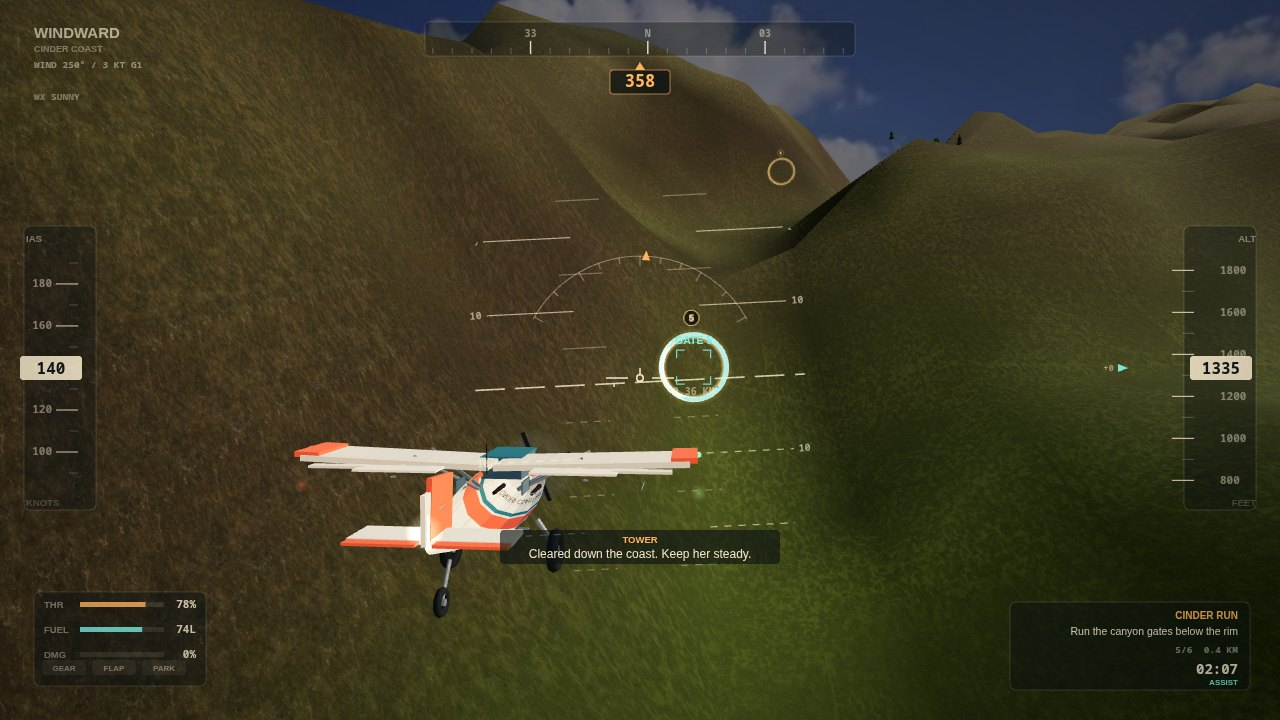
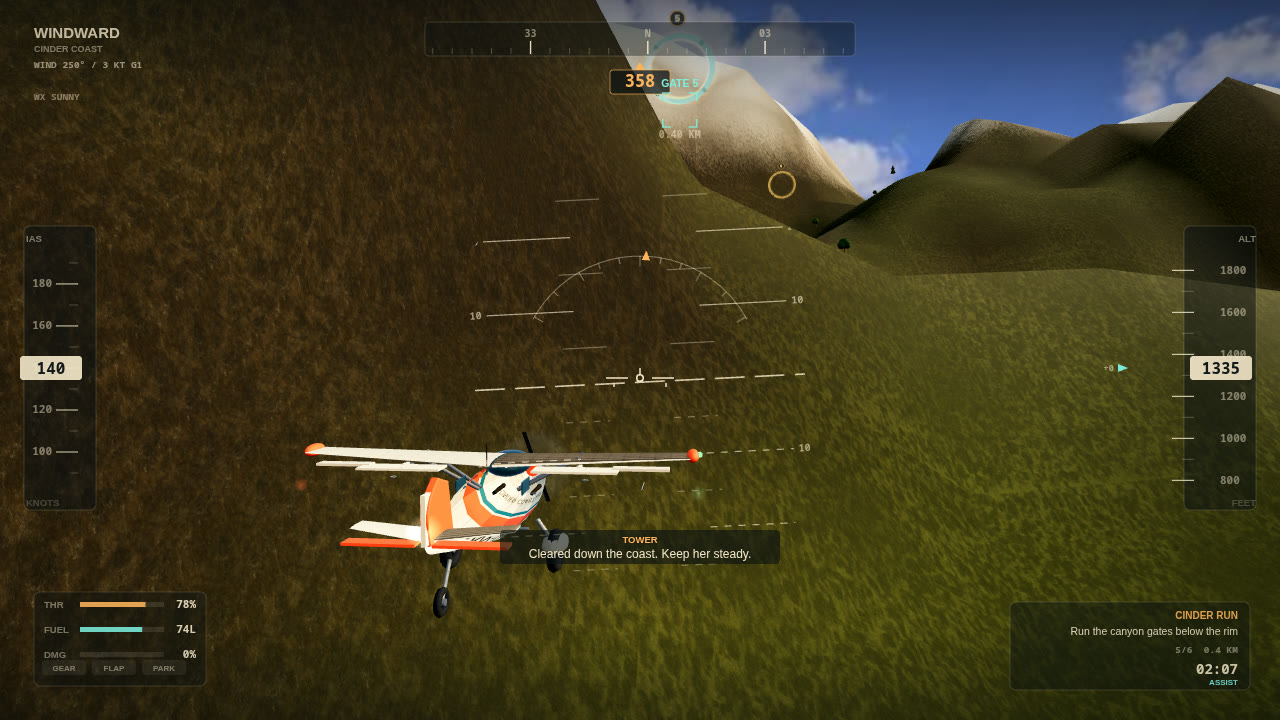
New cover set, caldera lake bowl, snow caps, cockpit glare shield and HUD scrims

diff --git a/game/src/world/weather.js b/game/src/world/weather.js
@@ -19,9 +19,9 @@ const PRESETS = {
     wind: { from: 250, speed: 3, gust: 1.2 },
   },
   sunset: {
-    label: 'SUNSET', bg: 'sunset', bgInt: 1, sunAzimuth: 300, sunElevation: 8.5, envKind: 'sunset',
+    label: 'SUNSET', bg: 'sunset', bgInt: 1, sunAzimuth: 300, sunElevation: 11.5, envKind: 'sunset',
     fog: '#d89d7c', fogNear: 1700, fogFar: 15500,
-    sunColor: '#ffb178', sunIntensity: 2.6, hemiSky: '#ffc9a0', hemiGround: '#5c3d33', hemiIntensity: 0.95,
+    sunColor: '#ffbb85', sunIntensity: 2.5, hemiSky: '#ffd0ab', hemiGround: '#5c3d33', hemiIntensity: 1.25,
     seaDeep: '#1d5162', seaShallow: '#69b4ad', seaSky: '#ffc08a', seaFog: '#d59a76', seaFogNear: 700, seaFogFar: 13000,
     rain: false, snow: false, snowGround: 0, lightning: false, env: 0.05, landingLight: false,
     wind: { from: 250, speed: 4, gust: 1.5 },
@@ -281,6 +281,15 @@ export function createWeather({ scene, sky, sea }) {
       g.fillStyle = grad;
       g.fillRect(x - r, y - r, r * 2, r * 2);
     }
+    // Feather the canvas edges so a sprite never shows its square boundary.
+    g.globalCompositeOperation = 'destination-in';
+    const mask = g.createRadialGradient(128, 64, 20, 128, 64, 120);
+    mask.addColorStop(0, 'rgba(0,0,0,1)');
+    mask.addColorStop(0.72, 'rgba(0,0,0,0.85)');
+    mask.addColorStop(1, 'rgba(0,0,0,0)');
+    g.fillStyle = mask;
+    g.fillRect(0, 0, 256, 128);
+    g.globalCompositeOperation = 'source-over';
     return new THREE.CanvasTexture(c);
   }
   const cloudTextures = [cloudTexture(881), cloudTexture(1723), cloudTexture(3301)];
@@ -293,10 +302,10 @@ export function createWeather({ scene, sky, sea }) {
     const sprite = new THREE.Sprite(new THREE.SpriteMaterial({
       map: cloudTextures[i % 3], color: i % 4 === 0 ? '#ffcdb2' : '#f6bda4',
       transparent: true, depthWrite: false, fog: false,
-      opacity: 0.62 + randomCloud() * 0.28,
+      opacity: 0.4 + randomCloud() * 0.26,
     }));
-    sprite.position.set(-2500 + Math.sin(a) * r, 560 + randomCloud() * 1500, 700 + Math.cos(a) * r);
-    sprite.scale.set(3600 + randomCloud() * 4200, 800 + randomCloud() * 900, 1);
+    sprite.position.set(-2500 + Math.sin(a) * r, 900 + randomCloud() * 1700, 700 + Math.cos(a) * r);
+    sprite.scale.set(3200 + randomCloud() * 3800, 700 + randomCloud() * 700, 1);
     sprite.renderOrder = 2;
     cloudGroup.add(sprite);
   }

diff --git a/game/src/main.js b/game/src/main.js
@@ -245,7 +245,7 @@ const stick = { roll: 0, pitch: 0, yaw: 0 };
 let time = 0;
 
 const titleFlight = {
-  position: new THREE.Vector3(-1810, 508, 1520),
+  position: new THREE.Vector3(-1980, 545, 1860),
   quaternion: new THREE.Quaternion(),
   speed: 60,
   throttle: 0.55,
@@ -259,10 +259,10 @@ const titleFlight = {
   overspeed: false,
   vertical: 0,
   bank: 0,
-  heading: 304,
+  heading: 328,
   gLoad: 1,
 };
-setHeading(titleFlight, 304);
+setHeading(titleFlight, 328);
 titleFlight.quaternion.multiply(new THREE.Quaternion().setFromAxisAngle(new THREE.Vector3(0, 0, 1), -0.08));
 
 function announce(text) {
@@ -471,8 +471,8 @@ function updateTitle(dt) {
   plane.userData.propDisc.rotation.z += dt * 3;
   const fwd = new THREE.Vector3(0, 0, -1).applyQuaternion(titleFlight.quaternion);
   titleFlight.position.addScaledVector(fwd, dt * 20);
-  if (titleFlight.position.distanceTo(new THREE.Vector3(-2500, 508, 700)) > 1400) {
-    titleFlight.position.set(-1810, 508, 1520);
+  if (titleFlight.position.distanceTo(new THREE.Vector3(-2500, 545, 700)) > 1500) {
+    titleFlight.position.set(-1980, 545, 1860);
   }
   rig.update(titleFlight, dt, time);
   weather.update(dt, camera, titleFlight);
@@ -1077,9 +1077,9 @@ const shot = params.get('shot');
 function stageShot(name) {
   const setups = {
     cover: { mission: 2, position: [-1810, 505, 1520], heading: 304, speed: 60, roll: -0.1, pitch: 0.02, camera: 'hero', gate: 0 },
-    cockpit: { mission: 2, position: [10, 190, 1700], heading: 0, speed: 57, roll: 0.0, pitch: 0.03, camera: 'cockpit', gate: 0 },
+    cockpit: { mission: 2, position: [-1900, 512, 1620], heading: 304, speed: 57, roll: 0.0, pitch: 0.02, camera: 'cockpit', gate: 0 },
     canyon: { mission: 4, position: [canyonPoint(-1000), 0, -1000], heading: 358, speed: 72, roll: -0.05, pitch: 0.01, camera: 'chase', gate: 4 },
-    landing: { mission: 3, position: [-8, 54, 610], heading: 0, speed: 46, roll: 0.0, pitch: -0.04, camera: 'hero', gate: 5 },
+    landing: { mission: 3, position: [-8, 66, 700], heading: 0, speed: 42, roll: 0.0, pitch: -0.05, camera: 'chase', gate: 4, gear: true, flaps: 2 },
     storm: { mission: 7, position: [0, 210, 2300], heading: 0, speed: 60, roll: -0.04, pitch: 0.02, camera: 'hero', gate: 0 },
   };
   const setup = setups[name];

diff --git a/game/src/aircraft/cockpit.js b/game/src/aircraft/cockpit.js
@@ -49,15 +49,17 @@ export function createCockpit() {
 
   // Panel on a tilted mount, with a padded coaming.
   const panelGroup = new THREE.Group();
-  panelGroup.position.set(0, 0.66, -1.5);
+  panelGroup.position.set(0, 0.5, -1.58);
   panelGroup.rotation.x = -0.4;
   group.add(panelGroup);
 
   const panel = new THREE.Mesh(new THREE.BoxGeometry(0.94, 0.46, 0.06), panelMat);
   panelGroup.add(panel);
-  const coaming = new THREE.Mesh(new THREE.BoxGeometry(1.02, 0.07, 0.2), shellMat);
-  coaming.position.set(0, 0.255, 0.05);
-  coaming.rotation.x = 0.12;
+  const coaming = new THREE.Mesh(
+    new THREE.BoxGeometry(0.96, 0.03, 0.12),
+    new THREE.MeshStandardMaterial({ color: '#2a2422', roughness: 0.98, metalness: 0.02 }),
+  );
+  coaming.position.set(0, 0.245, 0.02);
   panelGroup.add(coaming);
 
   // Panel floodlight: a warm wash across the dials.
@@ -127,8 +129,8 @@ export function createCockpit() {
       new THREE.PlaneGeometry(0.16, 0.075),
       new THREE.MeshBasicMaterial({ map: tex }),
     );
-    box.position.set(0.58 + i * 0.0, 0.86 - i * 0.1, -1.3);
-    screen.position.set(0.58, 0.86 - i * 0.1, -1.275);
+    box.position.set(0.56, 0.66 - i * 0.1, -1.4);
+    screen.position.set(0.56, 0.66 - i * 0.1, -1.375);
     group.add(box, screen);
   }
 
@@ -218,14 +220,11 @@ export function createCockpit() {
   group.add(tube(new THREE.Vector3(-0.78, 1.5, -0.85), new THREE.Vector3(0.78, 1.5, -0.85), 0.012, frameMat));
 
   // A narrow fascia under the panel, so the dials sit in a dashboard.
-  const fascia = new THREE.Mesh(new THREE.BoxGeometry(1.16, 0.26, 0.08), shellMat);
-  fascia.position.set(0, 0.4, -1.55);
-  group.add(fascia);
 
   // Glareshield and low side sills: they close the cockpit around the view without blocking it.
-  const glare = new THREE.Mesh(new THREE.BoxGeometry(1.04, 0.09, 0.3), shellMat);
-  glare.position.set(0, 0.94, -1.4);
-  glare.rotation.x = -0.08;
+  const glare = new THREE.Mesh(new THREE.BoxGeometry(0.94, 0.06, 0.16), shellMat);
+  glare.position.set(0, 0.735, -1.56);
+  glare.rotation.x = -0.06;
   group.add(glare);
   const dashBase = new THREE.Mesh(new THREE.BoxGeometry(2.5, 0.36, 1.0), shellMat);
   dashBase.position.set(0, 0.27, -0.82);

diff --git a/game/src/world/terrain.js b/game/src/world/terrain.js
@@ -54,7 +54,7 @@ export function sampleHeight(x, z) {
   const lx = (x - LAKE.x) / LAKE.rx;
   const lz = (z - LAKE.z) / LAKE.rz;
   const lakeDist = Math.sqrt(lx * lx + lz * lz);
-  const bowl = 1 - smoothstep(0.86, 1.16, lakeDist);
+  const bowl = 1 - smoothstep(1.0, 1.2, lakeDist);
   if (bowl > 0.001) h = lerp(h, 286, bowl * 0.985);
   // The caldera rim: a ring of sharp volcanic peaks beyond the bowl, with enough irregularity
   // that the skyline is a silhouette rather than a smooth dome.
@@ -224,8 +224,8 @@ export function createTerrain() {
       colors[v * 3] = c.r;
       colors[v * 3 + 1] = c.g;
       colors[v * 3 + 2] = c.b;
-      uvs[v * 2] = x / 16;
-      uvs[v * 2 + 1] = z / 16;
+      uvs[v * 2] = x / 11;
+      uvs[v * 2 + 1] = z / 11;
       v += 1;
     }
   }
@@ -285,7 +285,7 @@ export function createTerrain() {
       `
         vec3 gcol = texture2D(uGrass, vMapUv * 0.62).rgb;
         float gLum = dot(gcol, vec3(0.299, 0.587, 0.114));
-        gcol = mix(vec3(gLum), gcol, 0.72) * vec3(1.06, 1.0, 0.86);
+        gcol = mix(vec3(gLum), gcol, 0.55) * vec3(1.04, 0.99, 0.8) * 0.94;
         vec3 rcol = texture2D(uRock, vMapUv * 1.25).rgb * vec3(0.62, 0.66, 0.74);
         float macro = texture2D(uMacro, vMapUv * 0.055).r;
         float rockMix = max(smoothstep(0.22, 0.48, vSlope), smoothstep(170.0, 520.0, vHeight) * 0.85);

diff --git a/game/src/hud/hud.js b/game/src/hud/hud.js
@@ -341,6 +341,19 @@ export function createHud(canvas) {
       return;
     }
 
+    // Scrims top and bottom so the instruments stay readable against a bright sky or sun.
+    const topScrim = g.createLinearGradient(0, 0, 0, 148 * s);
+    topScrim.addColorStop(0, 'rgba(4,8,11,0.5)');
+    topScrim.addColorStop(0.62, 'rgba(4,8,11,0.16)');
+    topScrim.addColorStop(1, 'rgba(4,8,11,0)');
+    g.fillStyle = topScrim;
+    g.fillRect(0, 0, W, 148 * s);
+    const bottomScrim = g.createLinearGradient(0, H - 96 * s, 0, H);
+    bottomScrim.addColorStop(0, 'rgba(4,8,11,0)');
+    bottomScrim.addColorStop(1, 'rgba(4,8,11,0.34)');
+    g.fillStyle = bottomScrim;
+    g.fillRect(0, H - 96 * s, W, 96 * s);
+
     // Top-left wordmark and mission.
     g.textAlign = 'left';
     g.fillStyle = 'rgba(255,241,210,0.86)';

diff --git a/game/src/world/sky.js b/game/src/world/sky.js
@@ -34,6 +34,15 @@ function cloudTexture(seed) {
     g.ellipse(x, y, r * 1.5, r * 0.52, 0, 0, Math.PI * 2);
     g.fill();
   }
+  // Feather the canvas edges so the billboard never shows its square boundary.
+  g.globalCompositeOperation = 'destination-in';
+  const mask = g.createRadialGradient(256, 128, 30, 256, 128, 244);
+  mask.addColorStop(0, 'rgba(0,0,0,1)');
+  mask.addColorStop(0.7, 'rgba(0,0,0,0.9)');
+  mask.addColorStop(1, 'rgba(0,0,0,0)');
+  g.fillStyle = mask;
+  g.fillRect(0, 0, 512, 256);
+  g.globalCompositeOperation = 'source-over';
   const tex = new THREE.CanvasTexture(c);
   tex.colorSpace = THREE.SRGBColorSpace;
   return tex;

diff --git a/game/src/camera/rig.js b/game/src/camera/rig.js
@@ -44,7 +44,7 @@ export function createCameraRig(camera) {
       desired.copy(flight.position).add(local);
       camera.position.copy(desired);
       const target = flight.position.clone().addScaledVector(fwd, 26);
-      target.y -= 0.7;
+      target.y -= 0.55;
       camera.up.copy(up);
       camera.lookAt(target);
       camera.fov = damp(camera.fov, 68, 5, dt);

diff --git a/game/src/world/lake.js b/game/src/world/lake.js
@@ -6,7 +6,7 @@ import { LAKE } from './terrain.js';
 import { sunDirection } from './sky.js';
 
 export function createLake() {
-  const geo = new THREE.PlaneGeometry(LAKE.rx * 2.04, LAKE.rz * 2.04);
+  const geo = new THREE.PlaneGeometry(LAKE.rx * 2.62, LAKE.rz * 2.62);
   geo.rotateX(-Math.PI / 2);
   const uniforms = {
     uTime: { value: 0 },
